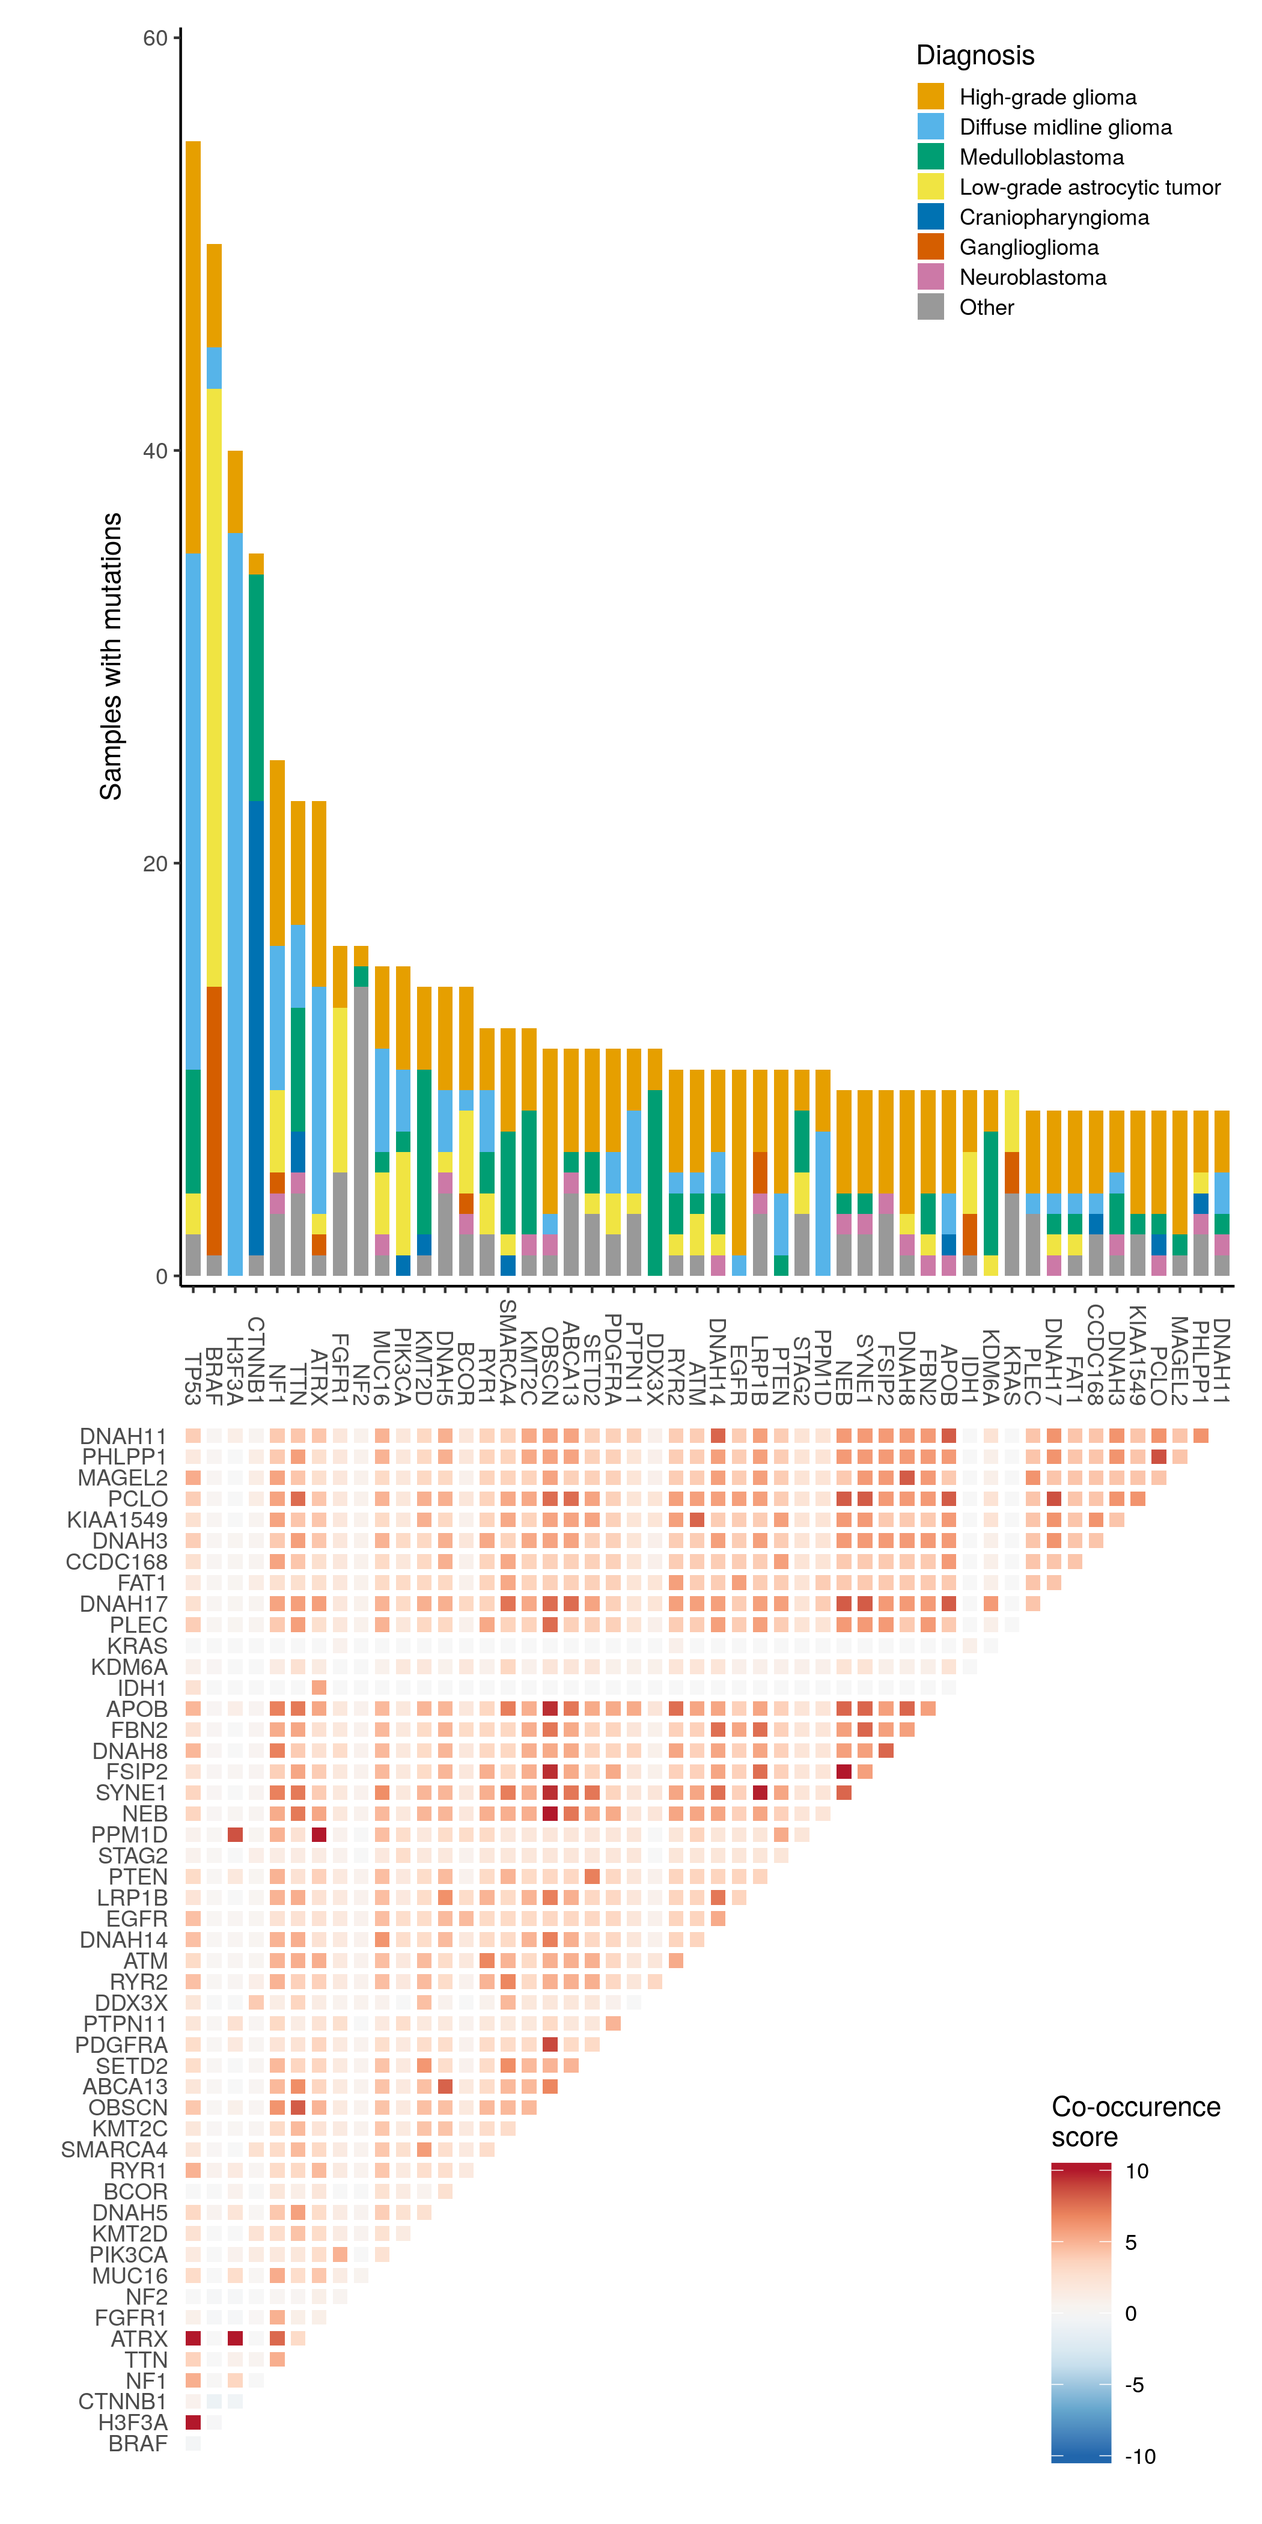
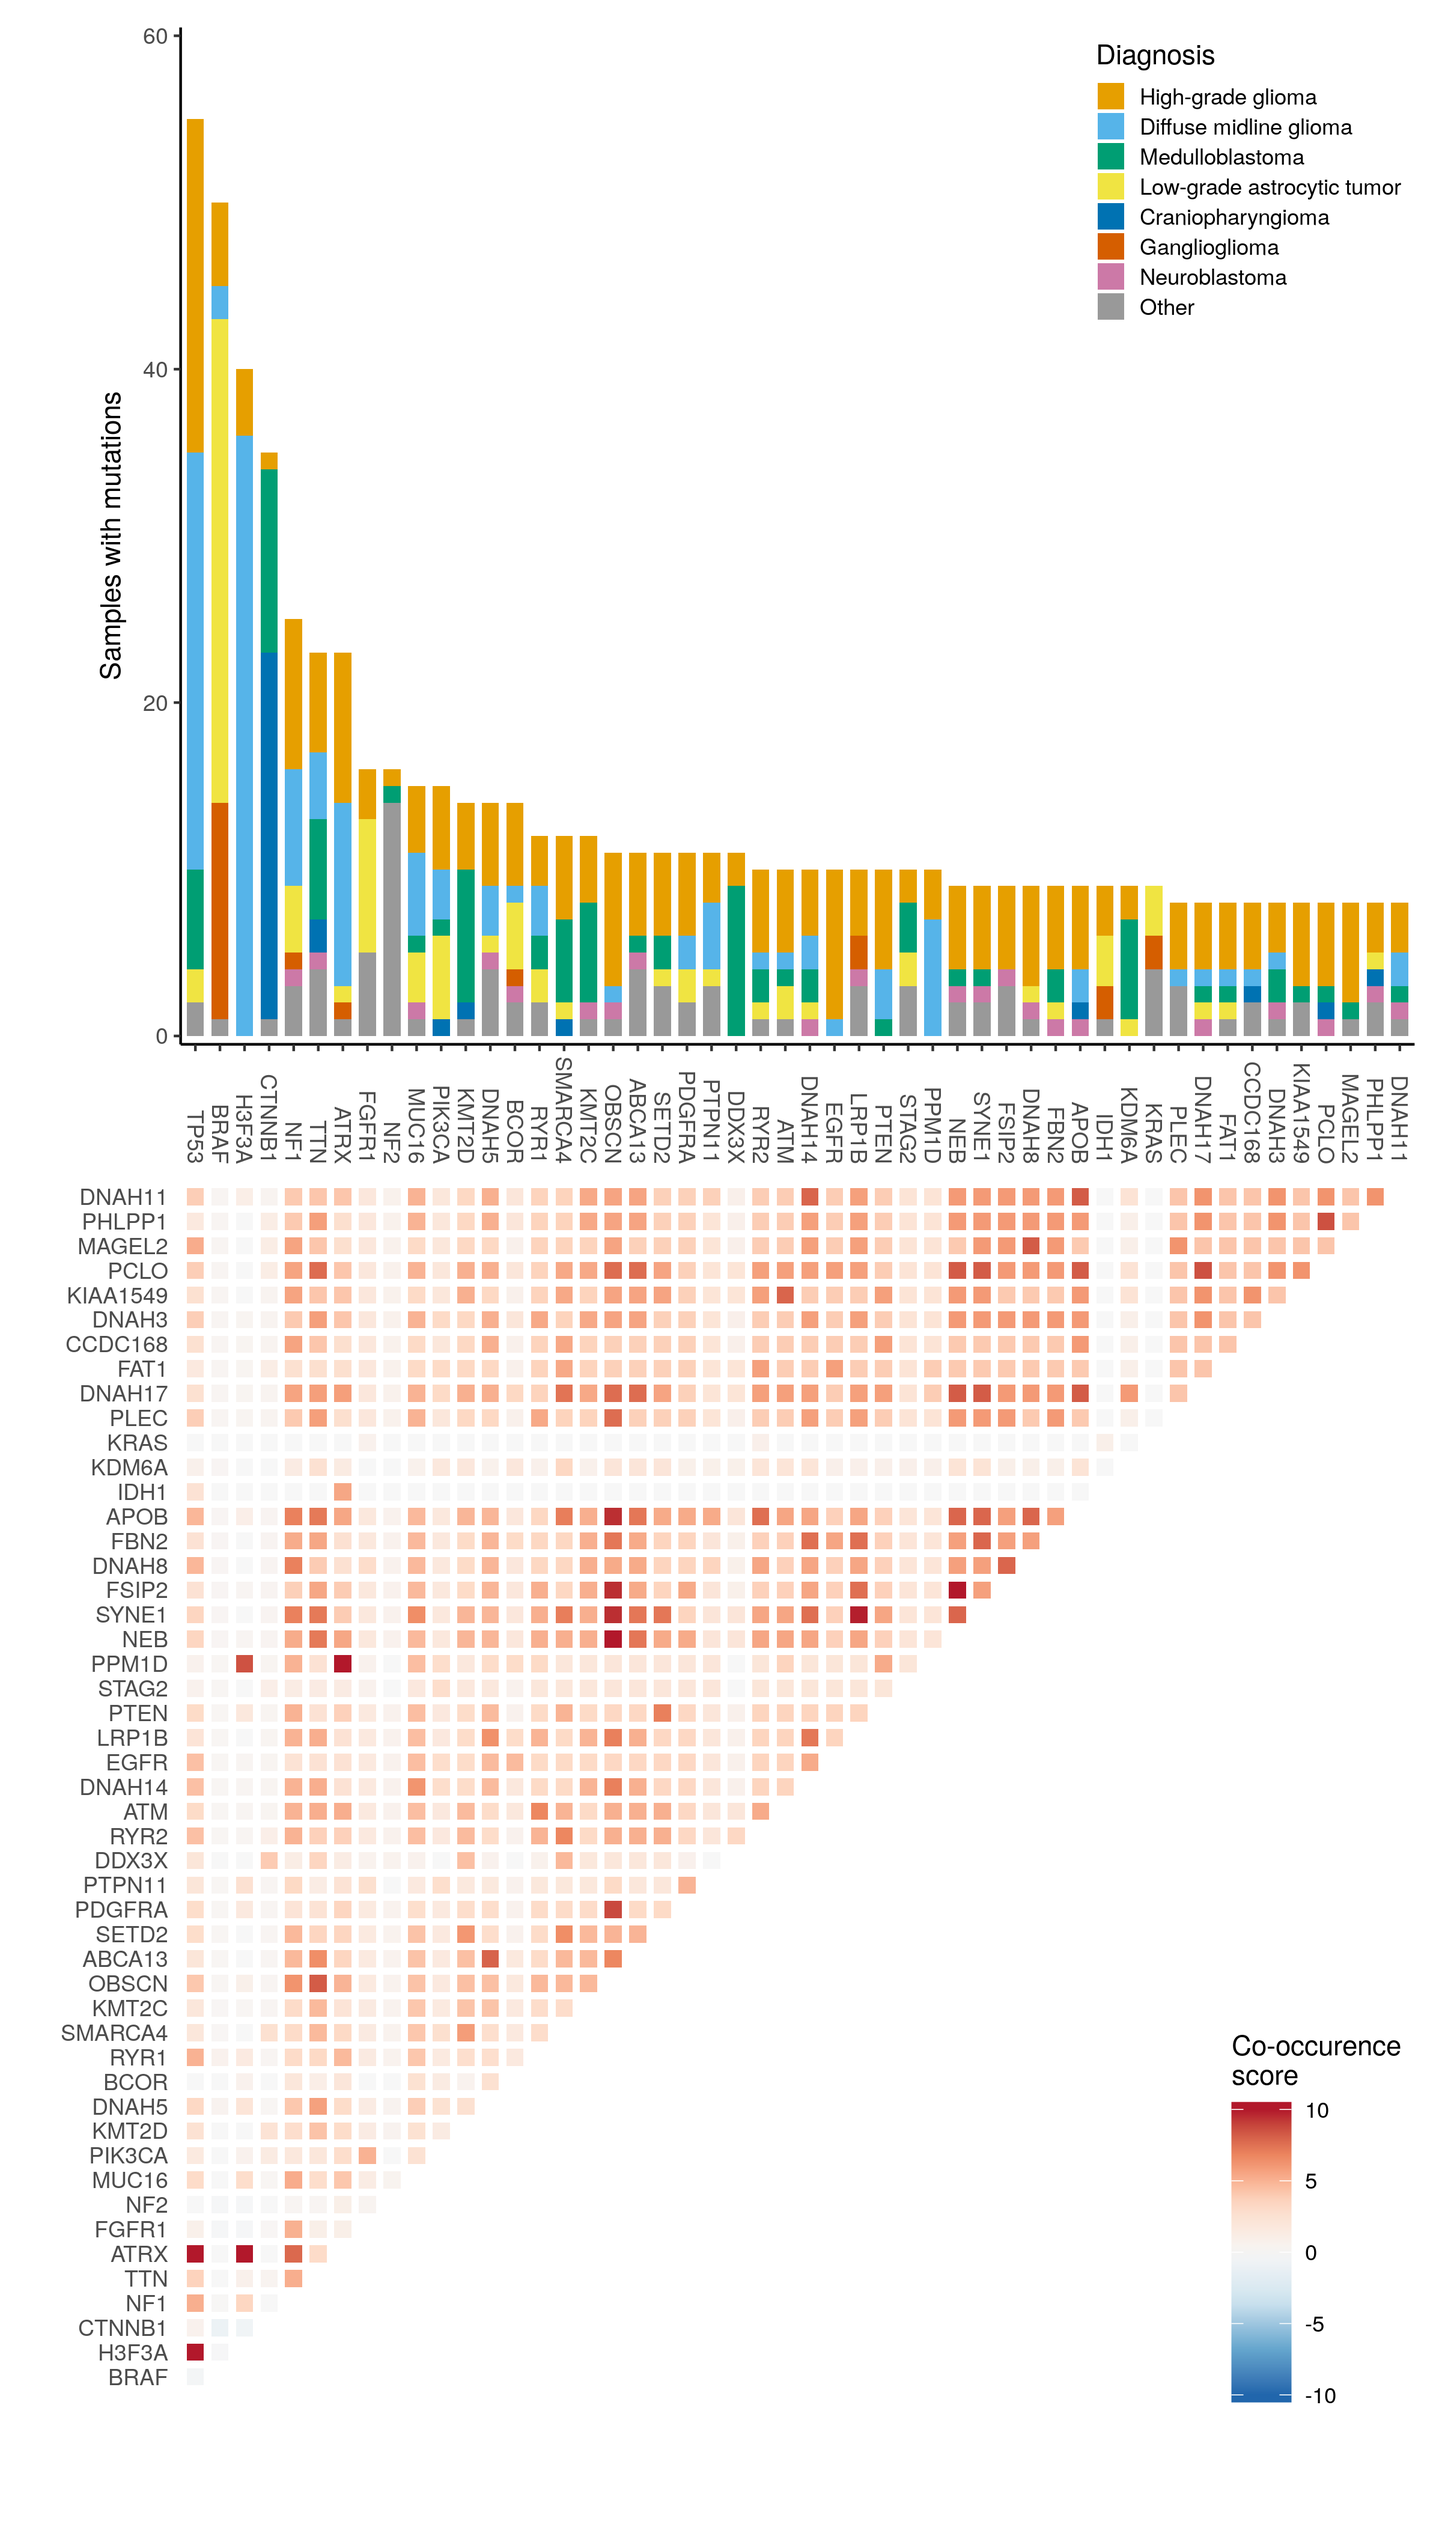
Incorporating review comments from @jaclyn-taroni and @kgaonkar6
Improved commenting 
A couple of little fixes (made the bar plot shorter)

diff --git a/analyses/interaction-plots/README.md b/analyses/interaction-plots/README.md
@@ -17,5 +17,5 @@ Future analyses will include creating plots by tumor type, and for specific list
 
 To run a basic analysis and create a co-occurence plot:
 ```
-sh analyses/interaction-plots/01-create-interaction-plots.sh
+bash analyses/interaction-plots/01-create-interaction-plots.sh
 ```
